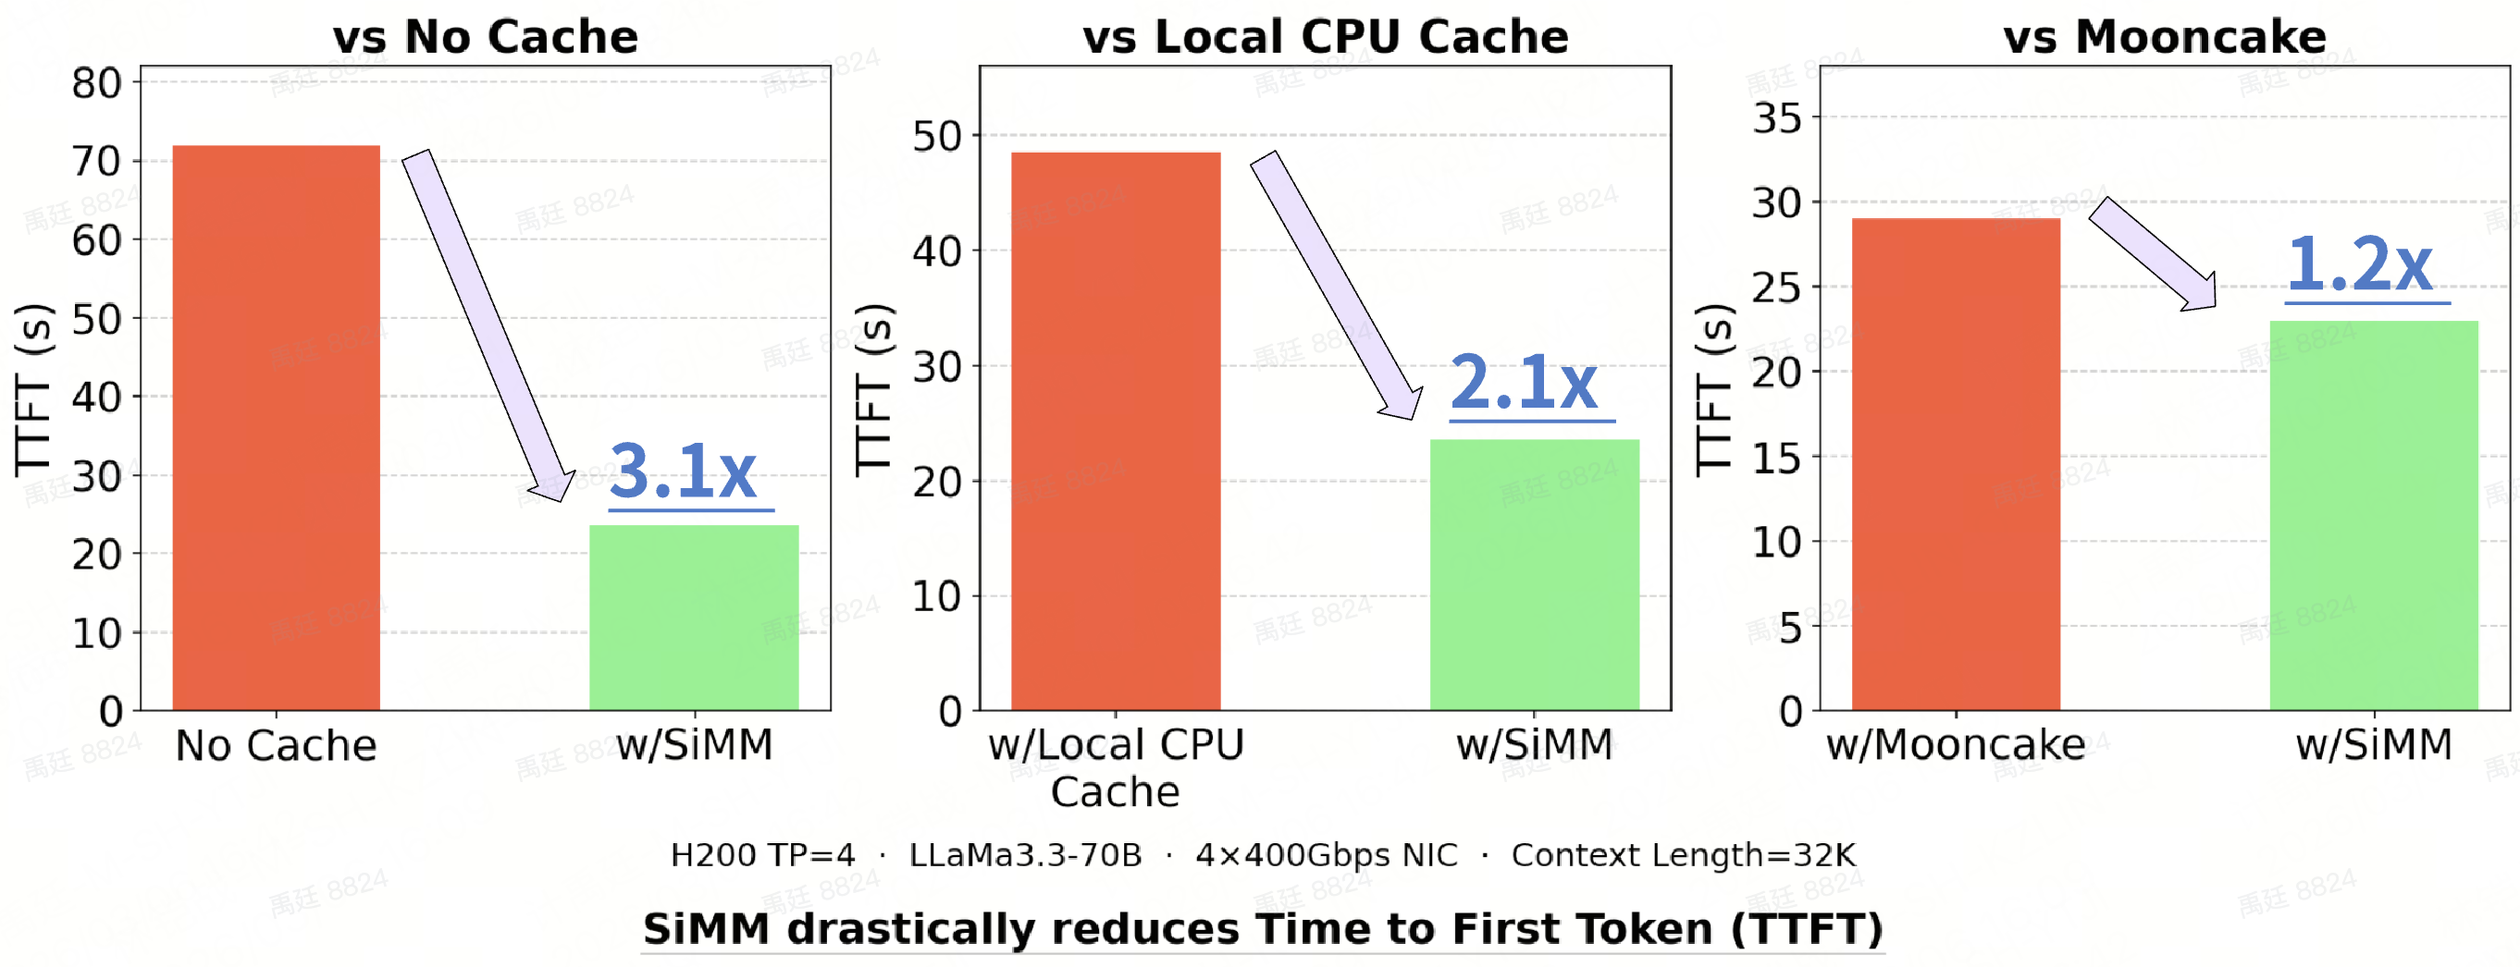
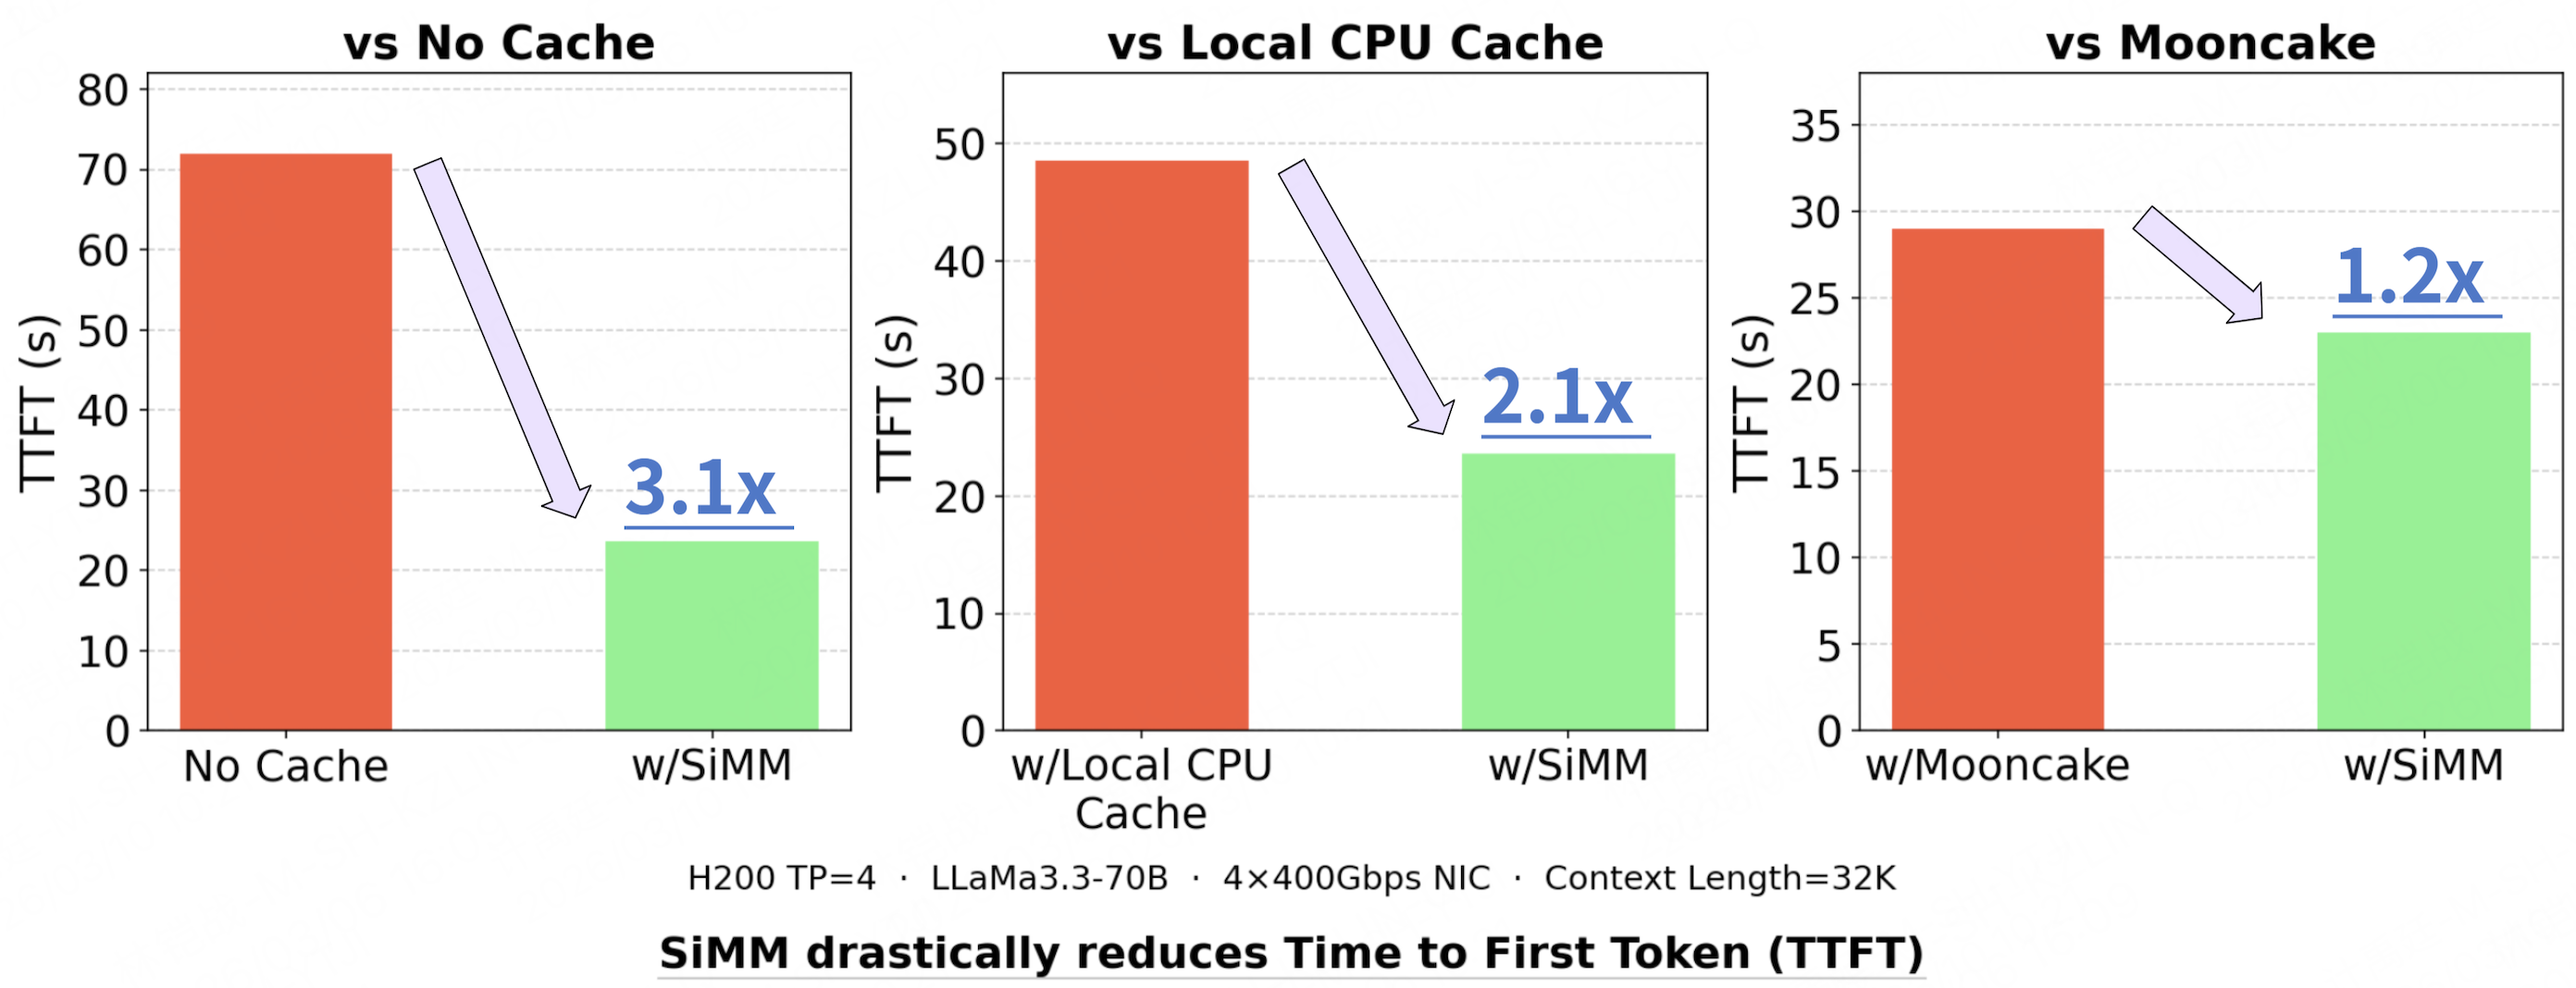
[Doc]: update some bench test pics, update main/metrics README files

diff --git a/README.md b/README.md
@@ -1,14 +1,14 @@
 # SiMM: Scalable in-Memory Middleware
 
 ## About
-**SiMM** is a high-performance, scalable Key-Value (KV) cache engine designed for LLM inference workloads. It addresses the critical bottlenecks in long-context prompts and multi-turn agent interactions by providing a dedicated, ultra-fast memory pool for KV cache storage.  
+**SiMM** is a high-performance, scalable Key-Value (KV) cache engine designed for LLM inference workloads. It addresses the critical bottlenecks in long-context prompts and multi-turn agent interactions by providing a dedicated, fast memory pool for KV cache storage.  
 Seamlessly integrated with leading inference engines like SGLang and vLLM, enabling offload and retrieve KV caches from SiMM, inference engines can bypass redundant prefill computations, significantly save GPU cycles and drastically reduce Time to First Token (TTFT). SiMM is already proven and validated in production environments.  
 
 #### Key Features
 - **Distributed Architecture**: Provides a massive, multi-node KV cache storage capable of supporting extremely long-context demands
 - **Linear Scalability**: Delivers linear growth in both capacity and throughput by horizontally scaling SiMM data servers, meeting dynamic KV cache requirements
-- **Ultra-Low Latency**: Reduces KV cache I/O (PUT/GET) latency by up to **9x** compared to industry-leading alternatives through an **end-to-end zero-copy** mechanism and a highly efficient software stack
-- **Ultra-High Bandwidth**: Maximizes I/O bandwidth by fully utilizing **ALL RDMA NICs** of client nodes (effectively eliminating the bottlenecks exposed in [DualPath](https://arxiv.org/abs/2602.21548))
+- **Low Latency**: Reduces KV cache I/O (PUT/GET) latency by up to **9x** compared to industry-leading alternatives through an **end-to-end zero-copy** mechanism and a highly efficient software stack
+- **High Bandwidth**: Maximizes I/O bandwidth by fully utilizing **ALL RDMA NICs** of client nodes (effectively eliminating the bottlenecks exposed in [DualPath](https://arxiv.org/abs/2602.21548))
 - **Ease of Use**: Offers seamless integration with popular inference engines, with deployment orchestrated via **Kubernetes (K8s)** for production-grade reliability  
   
 Under multi-turn long-context LLM workloads with significant KV cache reuse, **SiMM drastically reduces prefill latency (TTFT)** by transforming the prefill phase from a compute-heavy task into a high-speed I/O retrieval operation. Under 32K context length, SiMM achieves **3.1x** speedup over "No Cache" configuration and **2.1x** speedup over local CPU caching, **1.2x** outperforming industry-leading alternatives [[details](#integration-with-vllmlmcache)].   
@@ -269,7 +269,7 @@ vllm serve Qwen/Qwen2.5-7B-Instruct/ \
 * [FAQ](docs/faq.md)
 
 ## Contact us
-<a href="https://join.slack.com/share/enQtMTA2MTg3NTY0MjQ1NzgtZTc1OGFkMTMwMjQ5YTI3MjBiYThlNDZlMDFiMDRjOWMzNDVmYjViMGM5OTRlNGQwZjNmNzMzYzFjMWY4MGJkOA" target="_blank"><strong>Slack</strong></a>   
+<a href="https://join.slack.com/share/enQtMTA2MTg3NTY0MjQ1NzgtZTc1OGFkMTMwMjQ5YTI3MjBiYThlNDZlMDFiMDRjOWMzNDVmYjViMGM5OTRlNGQwZjNmNzMzYzFjMWY4MGJkOA" target="_blank"><strong>Slack Channel: simm-open-source</strong></a>   
 
 ## License
 SiMM is under Apache License v2.0, please see [`LICENSE`](LICENSE) for details

diff --git a/src/common/metrics/README.md b/src/common/metrics/README.md
@@ -55,6 +55,33 @@ curl -s http://127.0.0.1:<metrics_port>/metrics | head
 curl -s http://127.0.0.1:<metrics_port>/metrics | grep -E '^data_server_'
 ```
 
+### Analyse metrics with `simm_analyse_metrics.py`
+
+A small, dependency-free helper script lives at [`tools/simm_analyse_metrics.py`](../../../tools/simm_analyse_metrics.py).
+It fetches Prometheus text exposition from `/metrics` and prints a human-readable summary:
+
+- module list and per-module totals (requests/errors/read/written)
+- top-N request types (and latency quantiles if exported)
+- top-N error types
+
+With `--rate`, it performs two scrapes and reports per-second rates, including **IOPS (req/s)** and **throughput (MiB/s)**.
+
+Examples:
+
+```bash
+# Snapshot summary (defaults to http://127.0.0.1:9464/metrics)
+./tools/simm_analyse_metrics.py
+
+# Point at a specific host/port
+./tools/simm_analyse_metrics.py --url http://127.0.0.1:<metrics_port>/metrics
+
+# Compute per-second rates by taking two scrapes (IOPS / MiB/s)
+./tools/simm_analyse_metrics.py --rate --interval 1.0
+
+# Show more entries (top 20 instead of 10)
+TOPN=20 ./tools/simm_analyse_metrics.py
+```
+
 ### Run-time configuration
 
 The port is controlled by the gflag `metrics_port`. Currently changing this flag cannot change the port of the server.

diff --git a/docs/production_limits.md b/docs/production_limits.md
@@ -1,9 +1,9 @@
-## Release-v0.1.0
+## Release-v0.2.0
 
 | No         | Limit Item | Limit Value |
 | :---       | :----      | :----       |
 | 1 | Key Length | 1B ~ 256 B |
-| 2 | Value Length | 1 B ~ 4 MB |
+| 2 | Value Length | 1 B ~ 67088384 B (64MiB - 20KiB) |
 | 3 | SDK APIs | MDel/ AsyncMdel <font color=red>NOT</font> supported | 
 | 4 | Eviction Policy | <font color=yellow>ONLY</font> FIFO policy supported |
 | 5 | Network Env | <font color=yellow>ONLY</font> RDMA(IB/RoCEv2 supported), TCP/UDP <font color=red>NOT</font> supported |
